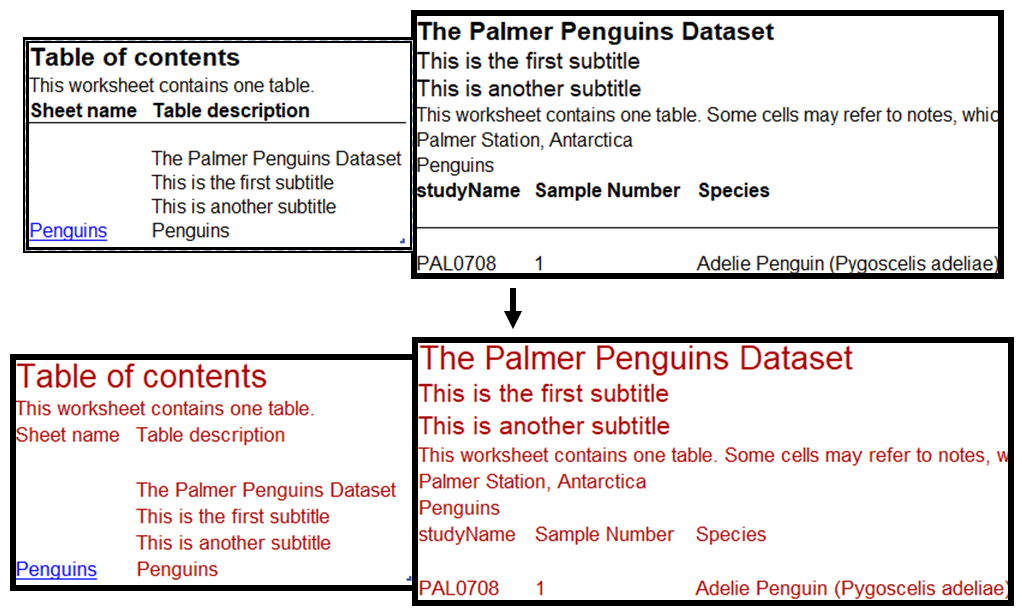
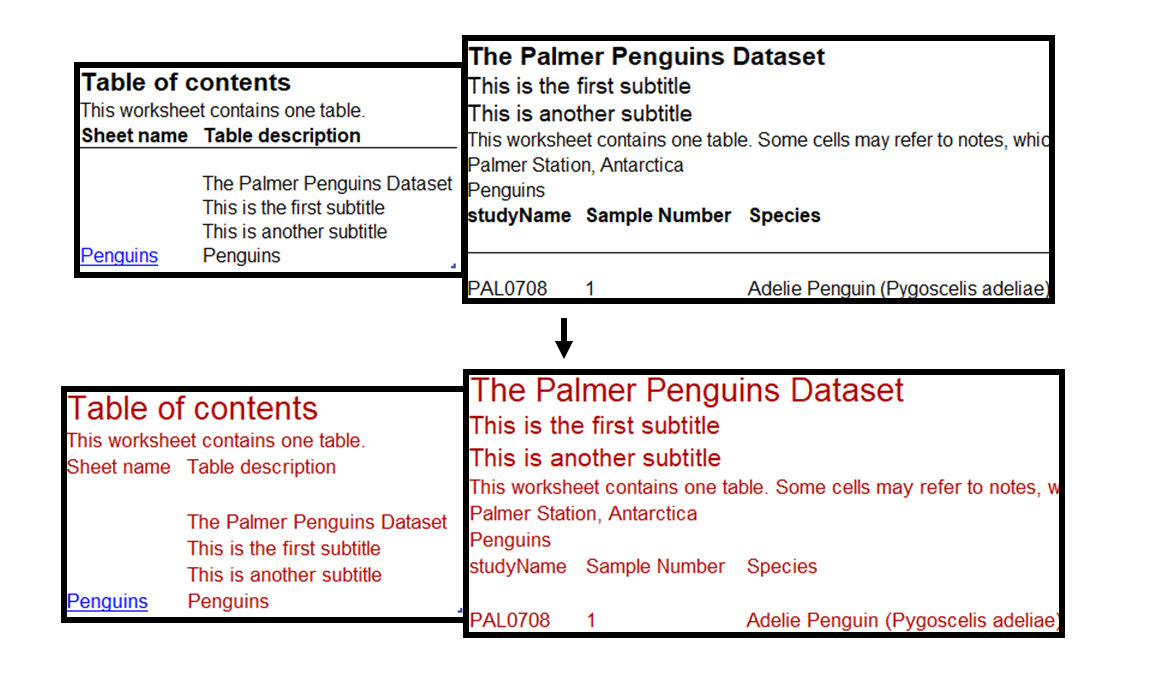
add cover sheet example, run hooks

Changed region(s): [[0.0, 0.0, 1.0, 0.9935]]

diff --git a/gptables/examples/how_to_theme_cover.py b/gptables/examples/how_to_theme_cover.py
@@ -1,0 +1,53 @@
+from pathlib import Path
+import pandas as pd
+import gptables as gpt
+
+parent_dir = Path(__file__).parents[1]
+penguins_data = pd.read_csv(parent_dir / "test/data/penguins.csv")
+
+penguins_table = gpt.GPTable(
+    table = penguins_data,
+    table_name = "penguins_statistics",
+    title = "The Palmer Penguins Dataset",
+    subtitles = ["This is the first subtitle",
+                "This is another subtitle"],
+    scope = "Penguins",
+    source = "Palmer Station, Antarctica",
+)
+
+penguins_sheets = {"Penguins": penguins_table}
+
+penguins_cover = gpt.Cover(
+    cover_label = "Cover",
+    title = "Palmer Penguins Dataset",
+    intro=[
+        "This spreadsheet contains a table of data obtained from the palmerpenguins package",
+        "This is intended to be a simple example of how to use the gptables package to create a spreadsheet with a cover sheet and data sheets.",
+    ],
+    about=[
+        "Additional information about your publication can go here",
+        [{"bold": True}, "Publication dates"],
+        "Date published: 01 January 2025.",
+        "Next release: 01 January 2026.",
+        [{"bold": True}, "Methodology notes"],
+        "Information on methodology can be useful to users of your data",
+        [{"bold": True}, "Notes, blank cells and units"],
+        "Some cells in the tables refer to notes which can be found in the notes worksheet. Note markers are presented in square brackets, for example: [note 1].",
+        "Blank cells indicate no data. An explanation of why there is no data is given in the notes worksheet, see the column headings for which notes you should refer to.",
+        "Some column headings give units, when this is the case the units are presented in round brackets to differentiate them from note markers.",
+    ],
+    contact=[
+        "Tel: 01234 567890",
+        "Email: [example@email.address](mailto: example@email.address)",
+    ],
+)
+
+if __name__ == "__main__":
+    output_path = parent_dir / "gptables_theme_cover.xlsx"
+    theme_path = str(Path(__file__).parent.parent / "themes/example_theme_cover.yaml")
+    gpt.write_workbook(
+        filename=output_path,
+        sheets=penguins_sheets,
+        theme=gpt.Theme(theme_path),
+        cover=penguins_cover,
+)

diff --git a/gptables/examples/how_to_theme_basic.py b/gptables/examples/how_to_theme_basic.py
@@ -1,5 +1,7 @@
 from pathlib import Path
+
 import pandas as pd
+
 import gptables as gpt
 
 parent_dir = Path(__file__).parents[1]
@@ -9,8 +11,7 @@ penguins_table = gpt.GPTable(
     table=penguins_data,
     table_name="penguins_statistics",
     title="The Palmer Penguins Dataset",
-    subtitles=["This is the first subtitle",
-               "This is another subtitle"],
+    subtitles=["This is the first subtitle", "This is another subtitle"],
     scope="Penguins",
     source="Palmer Station, Antarctica",
 )

diff --git a/docs/how_to/custom_theme.md b/docs/how_to/custom_theme.md
@@ -2,7 +2,7 @@
 
 It might be necessary to diverge from the `gptables` defaults, for example for organisational
 needs or user requirements. Where this is required regularly or across multiple teams, it can
-be helpful for reproducibility and code readability to create a custom theme as opposed to supplying 
+be helpful for reproducibility and code readability to create a custom theme as opposed to supplying
 an `additional_formatting` argument to `GPTable`.
 
 !!! warning "Consider accessibility implications from custom themes"
@@ -17,7 +17,8 @@ The code to reproduce these sheets can be found in the examples folder.
 The theme parameter in `gptables.write_workbook()` can be either a folder or a .yaml file.
 
 A .yaml can reformat settings across the whole workbook from global settings, as well as
-specified elements of the sheet. A basic example is shown below:
+specified elements of the sheet. A basic example is shown below, where the order in which elements
+appear on the datasheet is supplied under `description_order`.
 
 ```yaml
 global:
@@ -87,12 +88,32 @@ This is combined into an extendible code block below.
     )
     ```
 
-Theme files can also be used to modify elements such as the coversheet, x, and y. The precedence
-of formatting be specified with <>.
+Theme files can also be used to modify specific elements, such as the titles and subtitles
+on the cover:
 
 ```yaml
+global:
+    font_size: 13
+    font_name: Arial
+    font_color: '#AD0000'
+
+cover_title:
+    font_size: 20
+
+cover_subtitle:
+    font_size: 18
+
+data:
+    text_wrap: 1
+
+description_order:
+    - instructions
+    - source
+    - legend
+    - scope
 ```
 
-This is shown to have <>, and is combined in an extendible code block below.
+This is shown to have formatted the sizes of the cover elements, with the global settings
+dictating the other font sizes and colour throughout the workbook.
 
-![](<path_to_comparison_of_cover>)
+![](../static/howto_theme_cover.png)
